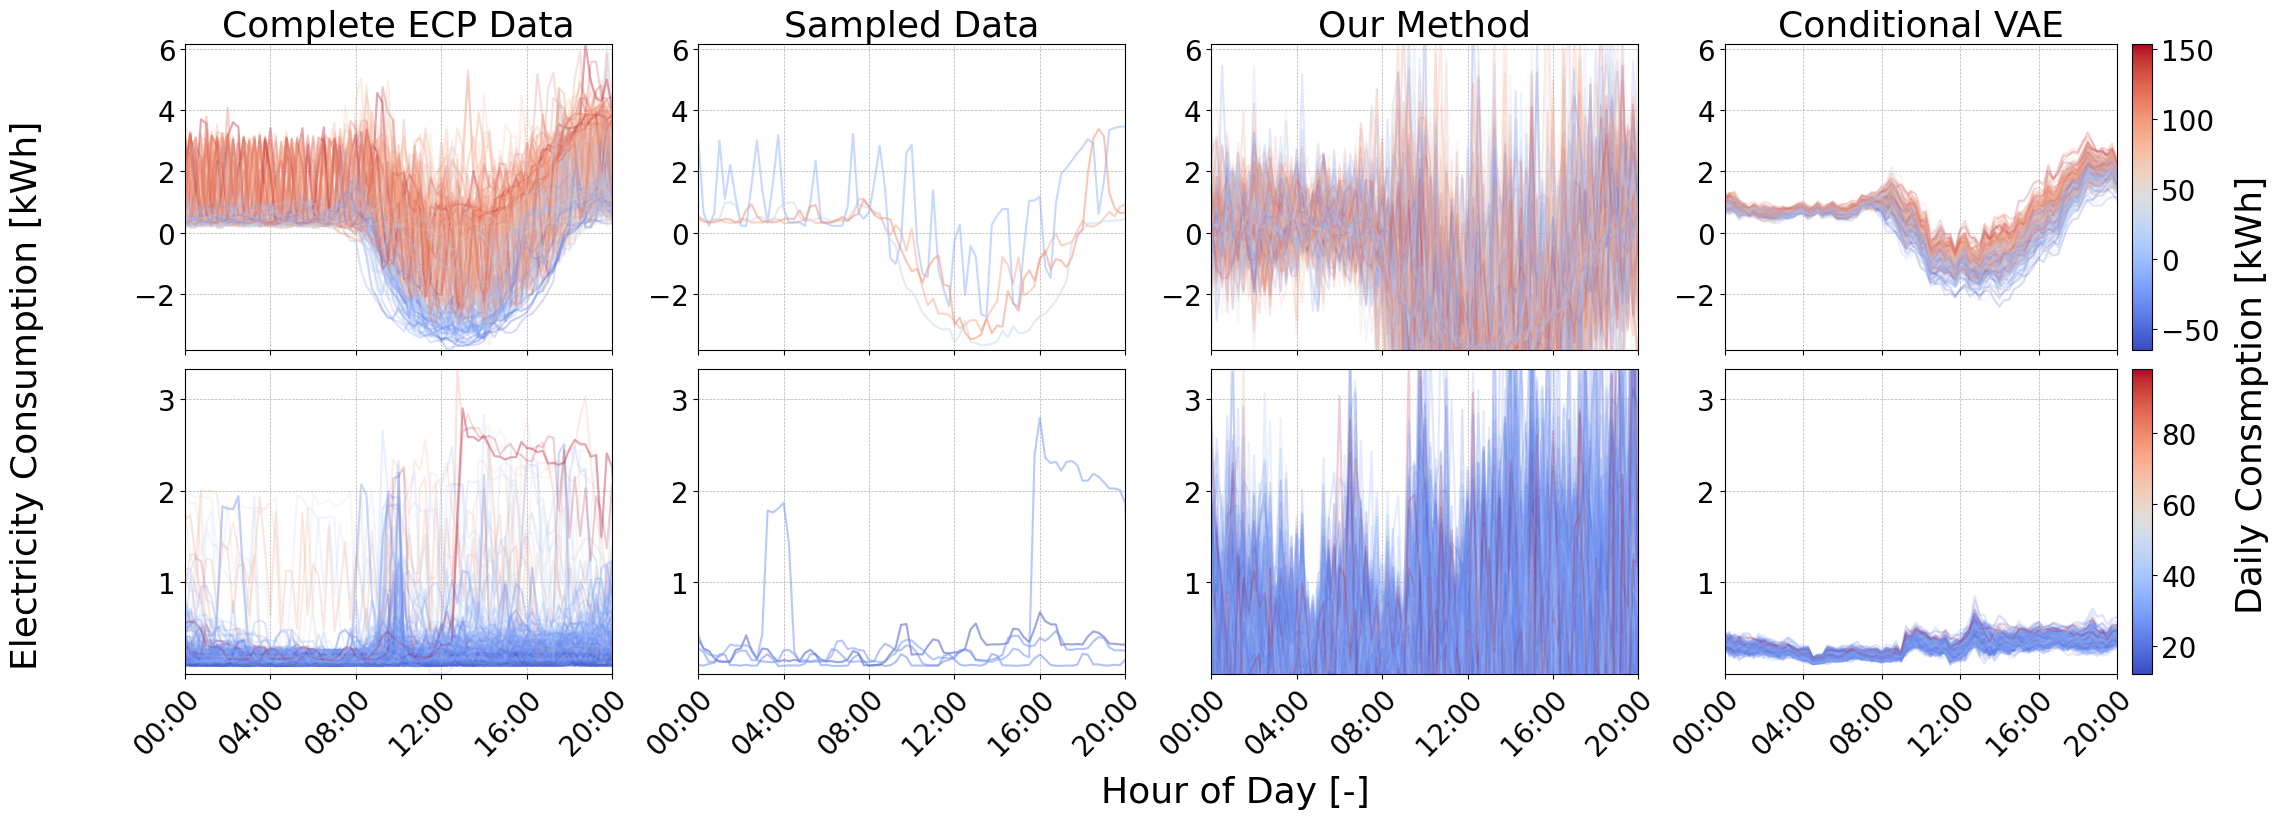
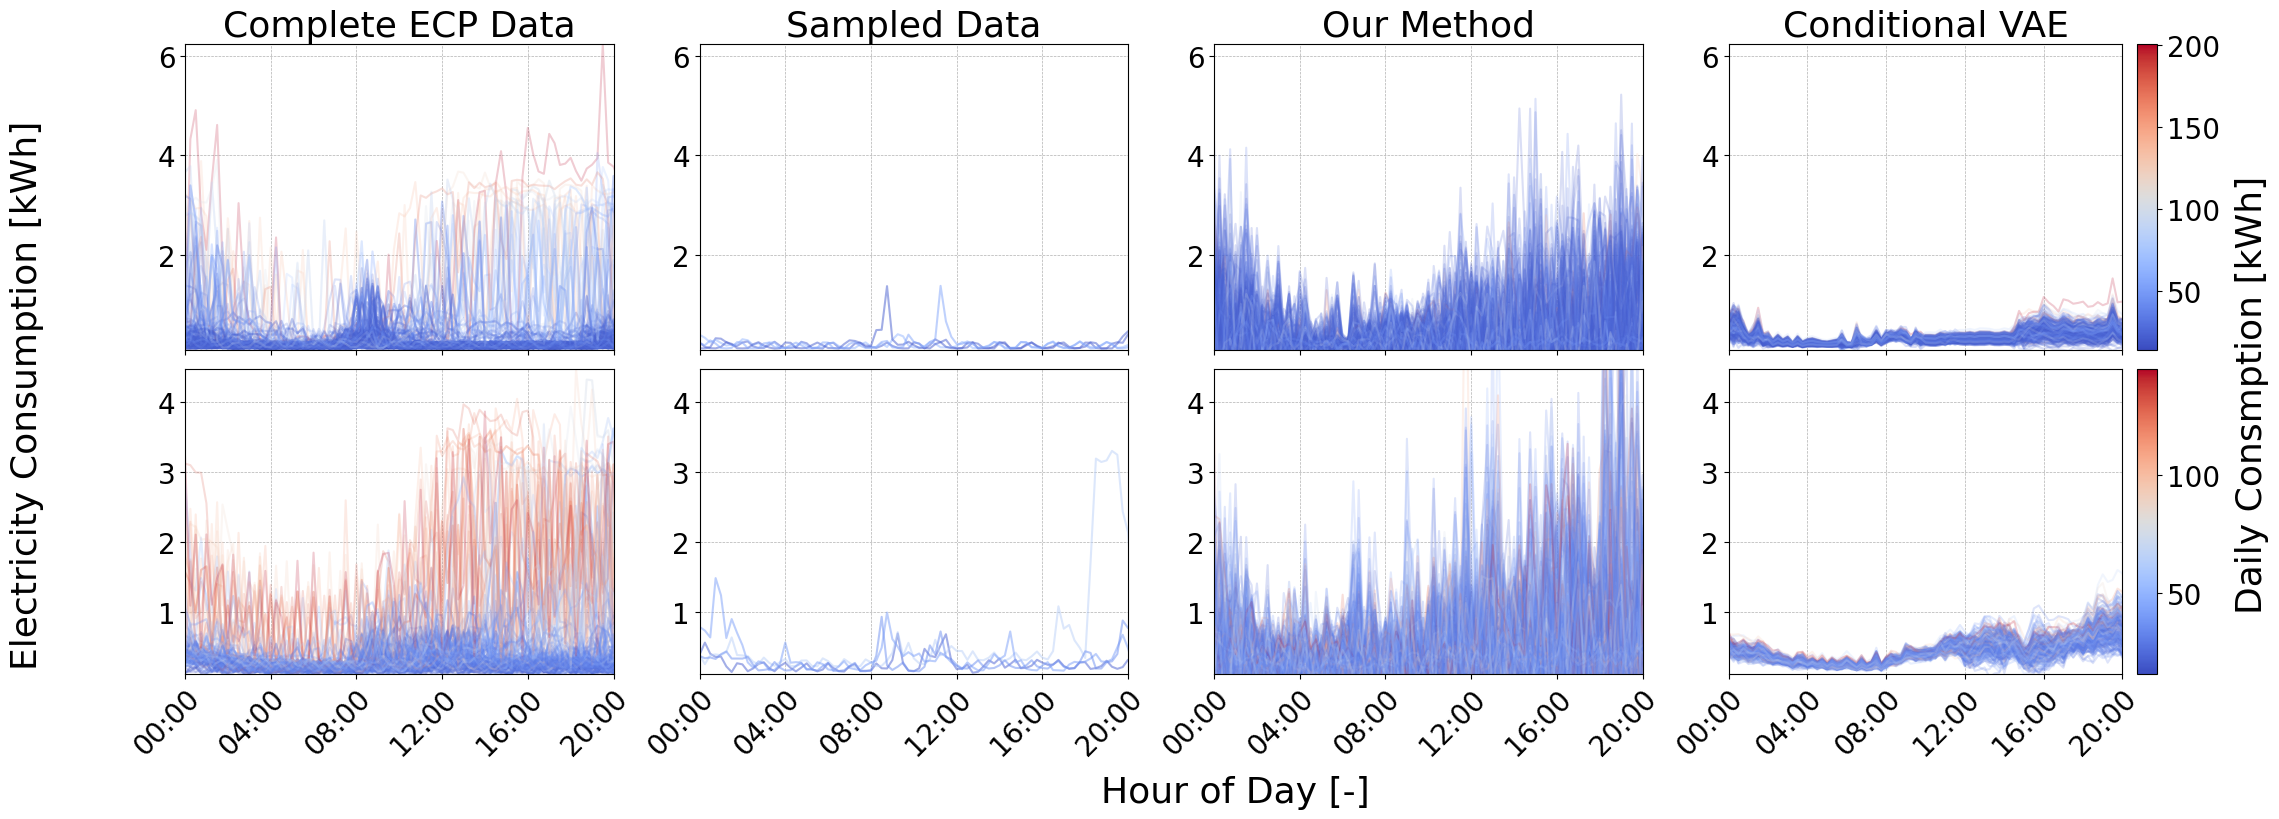
add

diff --git a/exp/exp_second_round/eva/evaconditionalgen/plot_result.py b/exp/exp_second_round/eva/evaconditionalgen/plot_result.py
@@ -33,7 +33,7 @@ print('lenthg of test data: ', dataset.__len__()*split_ratio[1])
 device = torch.device('cuda' if torch.cuda.is_available() else 'cpu')
 
 # define the hyperparameters
-random_sample_num_vae = 4
+random_sample_num_vae = 32
 num_epochs = int(10000)
 input_shape=(250, 96)      # (C, L)
 latent_channels = 16
@@ -46,7 +46,15 @@ vae = vaemodel.ConvPoolVAE1D(input_shape=input_shape, condition_shape=(random_sa
                                     hidden_dims=hidden_dims, cond_dims=cond_dims).to(device)
     
 # load vae 4 shot
-path_vae = f'exp/exp_second_round/conditional_generativemodels/4shot/vae_1336858_{random_sample_num_vae}.pth'
+if random_sample_num_vae == 4:
+    path_vae = f'exp/exp_second_round/conditional_generativemodels/4shot/vae_1336858_{random_sample_num_vae}.pth'
+if random_sample_num_vae == 8:
+    path_vae = 'exp/exp_second_round/conditional_generativemodels/8shot/vae_1337242_8.pth'
+if random_sample_num_vae == 16:
+    path_vae = 'exp/exp_second_round/conditional_generativemodels/16shot/vae_1338010_16.pth'
+if random_sample_num_vae == 32:
+    path_vae = 'exp/exp_second_round/conditional_generativemodels/32shot/vae_1339546_32.pth'
+    
 vae.load_state_dict(torch.load(path_vae, map_location=device))
 
 # load gmm
@@ -102,7 +110,10 @@ encoder.eval()
 _test_sample_part_emb = gmm_train_tool.pad_and_embed(_test_sample_part, random_sample_num, random_sample_num_vae,
                                         emb_empty_token, device)
 _ms, _covs = ep.GMM_PyTorch_Batch(n_components, _test_sample_part[:,:, :-1].shape[-1]).fit(_test_sample_part[:,:, :-1], 1) # _ms: (b, n_components, 24), _covs: (b, n_components, 24)
+_ms = torch.zeros(_ms.shape[0], n_components, 96).to(device)
+_covs = torch.ones(_ms.shape[0], n_components, 96).to(device)
 
+    
 # concatenate the mean and variance to have (b, n_components*2, 25)
 _param_emb, _param = gmm_train_tool.concatenate_and_embed_params(_ms, _covs, n_components, embedding_para, device)
 
